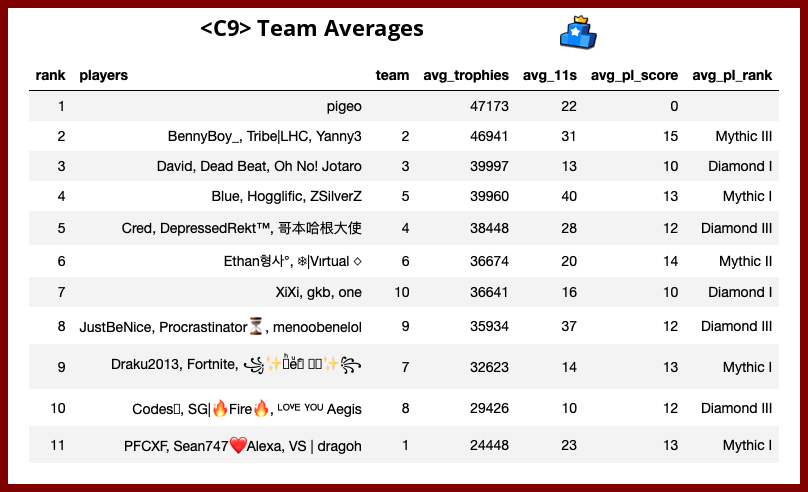
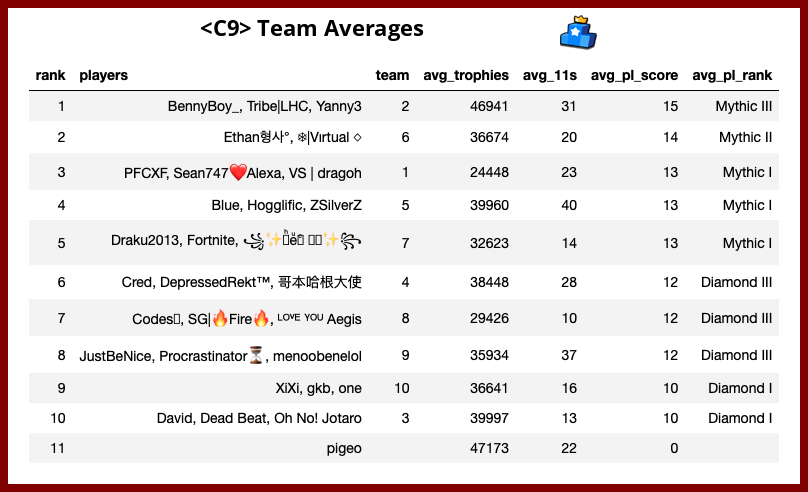
order by PL rank

diff --git a/aura.py b/aura.py
@@ -149,7 +149,7 @@ select team,
        group_concat(player) as players
        from df1
        group by team
-       order by avg_trophies desc, avg_11s desc
+       order by avg_pl_score desc
 """
 team1 = sqldf(team1_q, globals()).fillna(0)
 team1['players'] = team1['players'].map(lambda x: x.replace(',', ', '))
@@ -175,7 +175,7 @@ select team,
        group_concat(player) as players
        from df2
        group by team
-       order by avg_trophies desc, avg_11s desc
+       order by avg_trophies desc
 """
 team2 = sqldf(team2_q, globals()).fillna('')
 team2['players'] = team2['players'].map(lambda x: x.replace(',', ', '))
